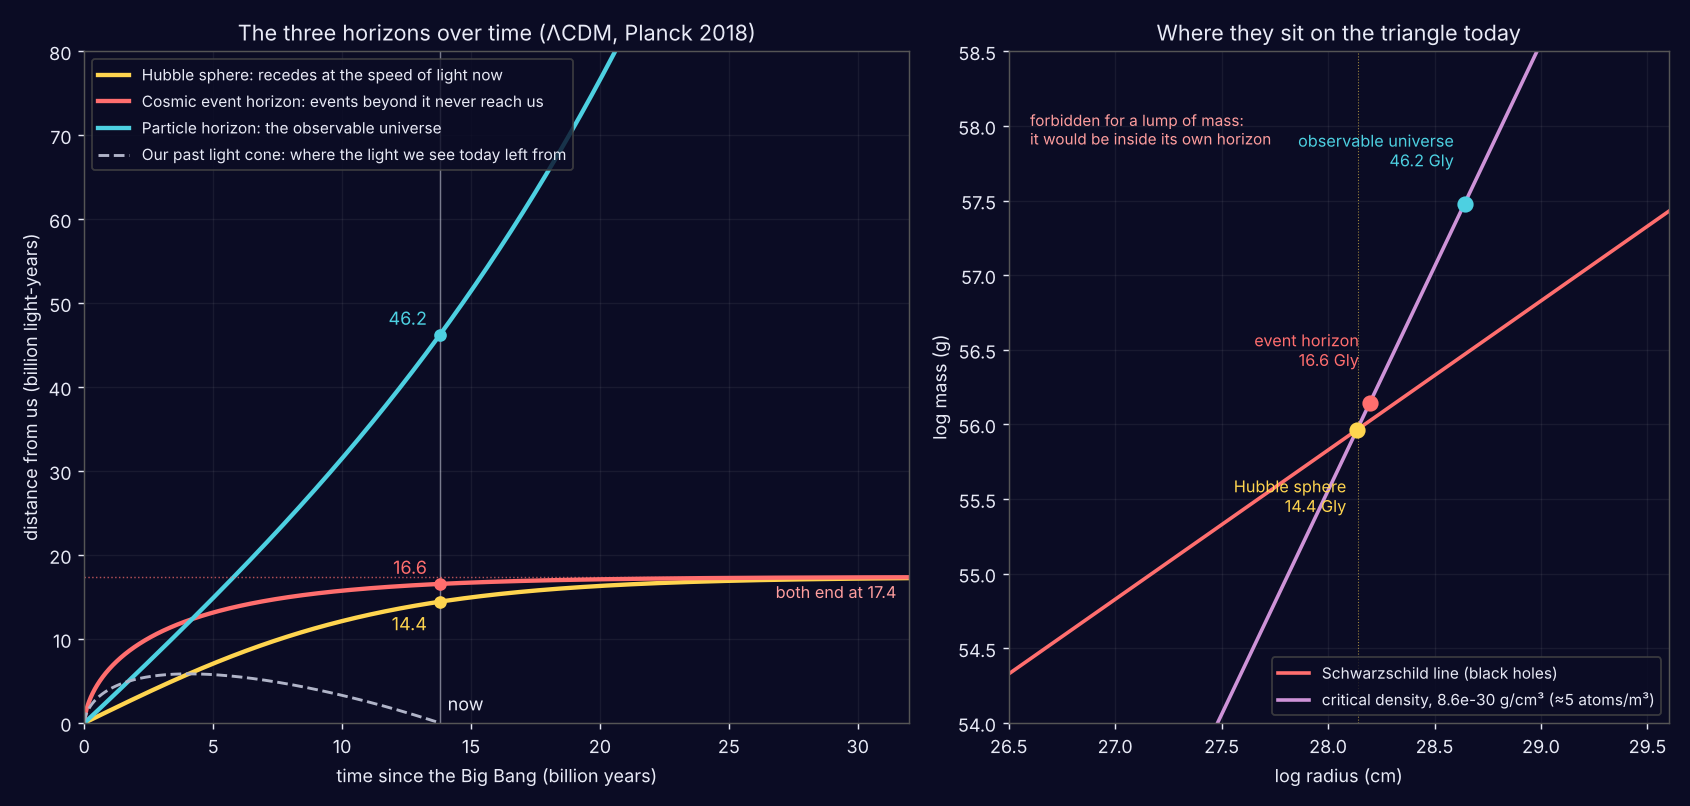
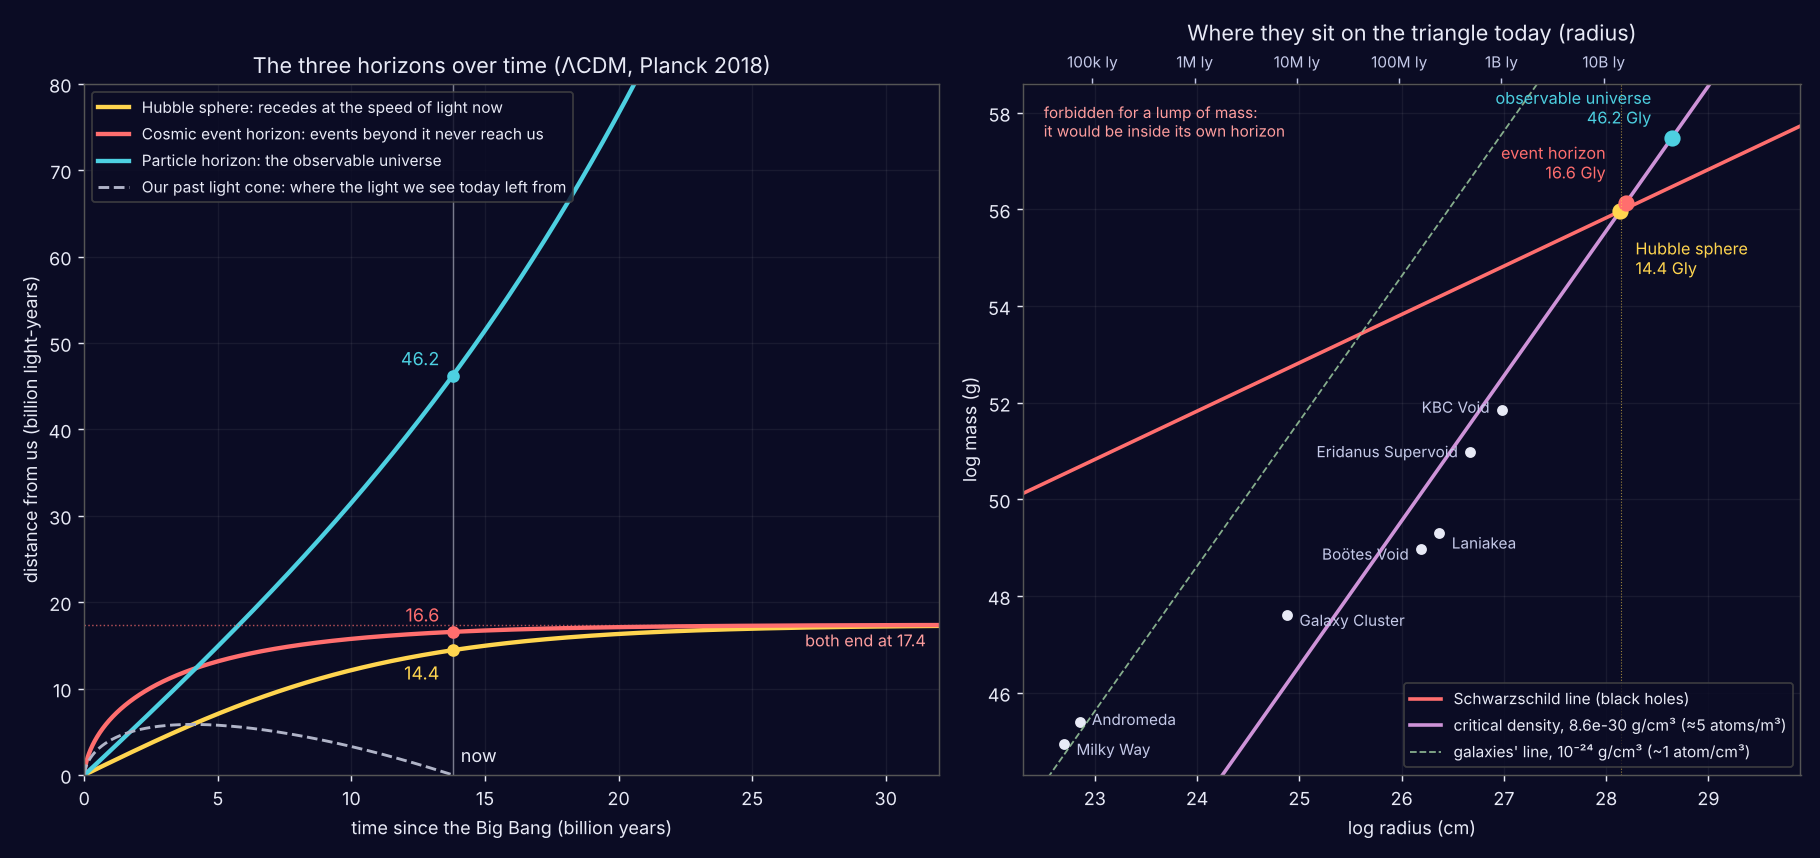
Cosmic horizons figure: wider triangle panel with galaxies, clusters, Laniakea and voids, light-year scale
Claude-Session: https://claude.ai/code/session_01T6uCPMFm5Mbu61EJXWvrTJ

diff --git a/scripts/plot-cosmic-horizons.py b/scripts/plot-cosmic-horizons.py
@@ -17,7 +17,7 @@ chi0=np.interp(1,a,chi)
 RH=1/H; PH=a*chi; EH=a*(chi_inf-chi); LC=np.where(t<=t0,a*(chi0-chi),np.nan)
 now=lambda y: np.interp(t0,t,y)
 print("t0",t0,"Hubble",now(RH),"event",now(EH),"particle",now(PH))
-fig,ax=plt.subplots(1,2,figsize=(13,6.2),gridspec_kw=dict(width_ratios=[1.25,1]))
+fig,ax=plt.subplots(1,2,figsize=(14,6.6),gridspec_kw=dict(width_ratios=[1.1,1]))
 bg="#0b0c24"; fg="#e8eaf6"
 for x in ax: x.set_facecolor(bg)
 fig.patch.set_facecolor(bg)
@@ -37,17 +37,27 @@ A.set_title("The three horizons over time (ΛCDM, Planck 2018)",color=fg,fontsiz
 A.legend(loc="upper left",fontsize=8.6,facecolor=bg,edgecolor="#444",labelcolor=fg)
 B=ax[1]; ly=9.4607e17; G=6.674e-8; cc=2.998e10
 rhoc=3*(H0/3.0857e19)**2/(8*np.pi*G)
-R=np.linspace(26.5,29.6,50)
+R=np.linspace(22,30,80)
 B.plot(R,R+np.log10(cc**2/(2*G)),color="#ff6e6e",lw=2,label="Schwarzschild line (black holes)")
 B.plot(R,np.log10(4/3*np.pi*rhoc)+3*R,color="#ce93d8",lw=2,label=f"critical density, {rhoc:.1e} g/cm³ (≈5 atoms/m³)")
-for r,col,lab,dy in [(now(RH),"#ffd54f","Hubble sphere",-0.55),(now(EH),"#ff6e6e","event horizon",0.25),(now(PH),"#4dd0e1","observable universe",0.25)]:
+for r,col,lab,dx,dy,ha in [(now(RH),"#ffd54f","Hubble sphere",0.15,-1.3,"left"),(now(EH),"#ff6e6e","event horizon",-0.2,0.5,"right"),(now(PH),"#4dd0e1","observable universe",-0.2,0.3,"right")]:
   lr=np.log10(r*1e9*ly); lm=np.log10(4/3*np.pi*rhoc)+3*lr
-  B.plot([lr],[lm],"o",color=col,ms=8); B.text(lr-0.05,lm+dy,f"{lab}\n{r:.1f} Gly",color=col,ha="right",fontsize=9)
+  B.plot([lr],[lm],"o",color=col,ms=8); B.text(lr+dx,lm+dy,f"{lab}\n{r:.1f} Gly",color=col,ha=ha,fontsize=9)
+# light-years along the top, for scale
+T=B.secondary_xaxis("top",functions=(lambda x: x, lambda x: x))
+T.set_xticks([np.log10(v*ly) for v in (1e5,1e6,1e7,1e8,1e9,1e10)])
+T.set_xticklabels(["100k ly","1M ly","10M ly","100M ly","1B ly","10B ly"]); T.tick_params(colors="#c5cae9",labelsize=8.5)
 B.axvline(28.14,color="#ffd54f",lw=0.6,ls=":",alpha=0.6)
-B.set_xlim(26.5,29.6); B.set_ylim(54,58.5)
+# the big things from the chart (src/objects.json), for scale
+for n,lr,lm,ha,dx,dy in [("Milky Way",22.70,44.93,"left",0.12,-0.1),("Andromeda",22.85,45.40,"left",0.12,0.05),
+    ("Galaxy Cluster",24.88,47.60,"left",0.12,-0.1),("Boötes Void",26.19,48.97,"right",-0.12,-0.1),
+    ("Laniakea",26.37,49.30,"left",0.12,-0.2),("Eridanus Supervoid",26.67,50.99,"right",-0.12,0.0),("KBC Void",26.98,51.86,"right",-0.12,0.05)]:
+  B.plot([lr],[lm],"o",color="#e8eaf6",ms=5); B.text(lr+dx,lm+dy,n,color="#c5cae9",ha=ha,va="center",fontsize=8.5)
+B.plot(R,-24+np.log10(4/3*np.pi)+3*R,color="#a5d6a7",lw=1,ls="--",alpha=0.8,label="galaxies' line, 10⁻²⁴ g/cm³ (~1 atom/cm³)")
+B.set_xlim(22.3,29.9); B.set_ylim(44.3,58.6)
 B.set_xlabel("log radius (cm)",color=fg); B.set_ylabel("log mass (g)",color=fg)
-B.set_title("Where they sit on the triangle today",color=fg,fontsize=12)
-B.text(26.6,58.1,"forbidden for a lump of mass:\nit would be inside its own horizon",color="#ff9e9e",fontsize=8.5,va="top")
+B.set_title("Where they sit on the triangle today (radius)",color=fg,fontsize=12,pad=24)
+B.text(22.5,58.2,"forbidden for a lump of mass:\nit would be inside its own horizon",color="#ff9e9e",fontsize=8.5,va="top")
 B.legend(loc="lower right",fontsize=8.6,facecolor=bg,edgecolor="#444",labelcolor=fg)
 for x in ax:
   x.tick_params(colors=fg); [s.set_color("#555") for s in x.spines.values()]; x.grid(color="#ffffff",alpha=0.06)
